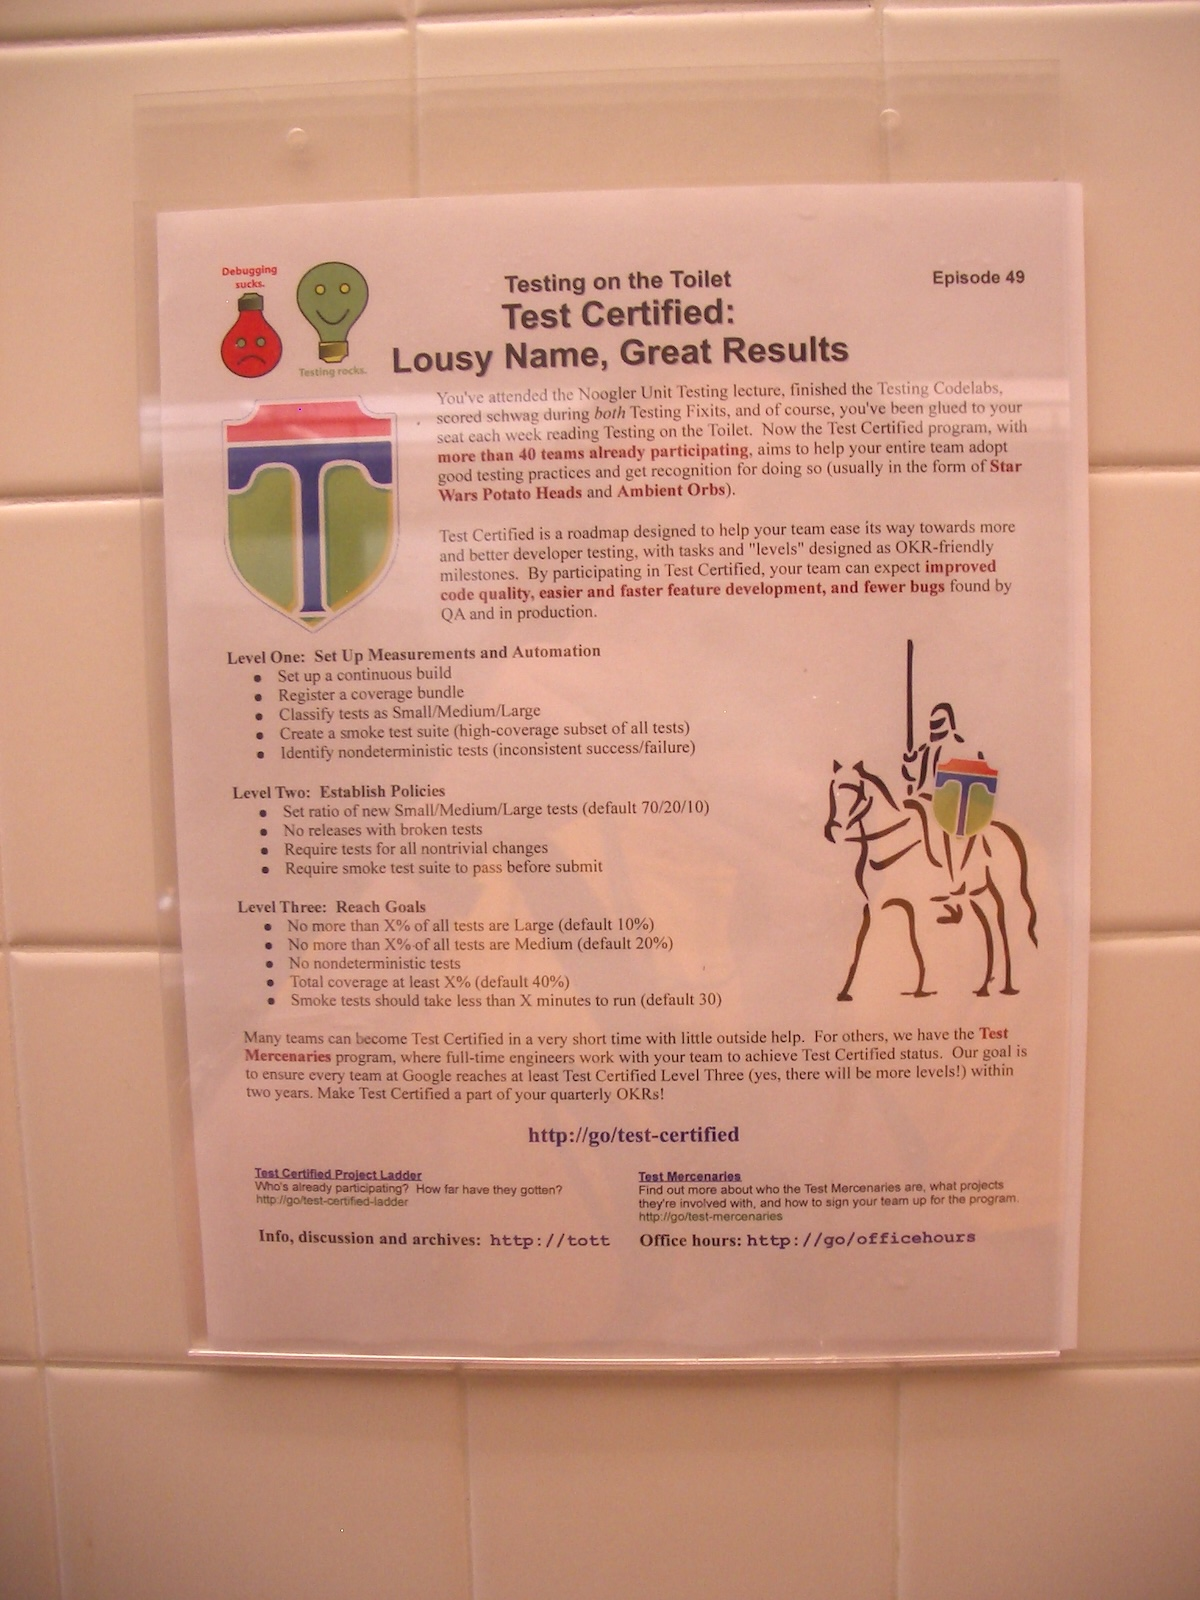
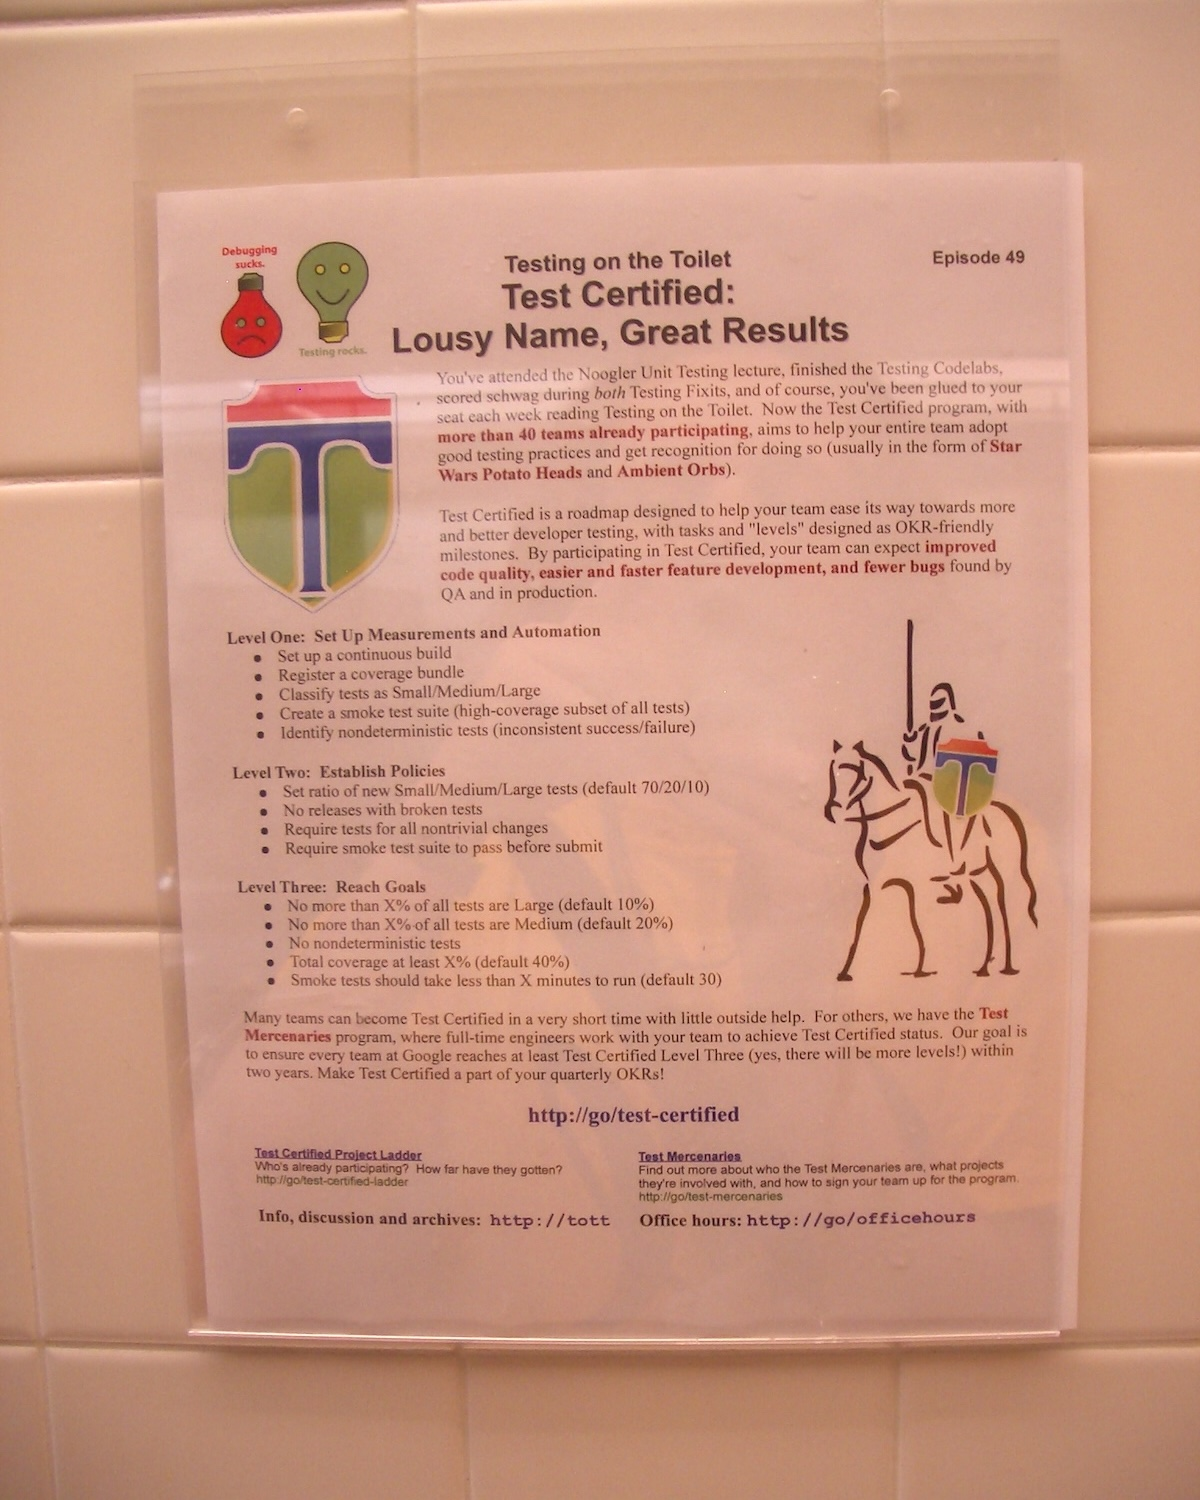
Image sizes.

diff --git a/blog/aiadoption.html b/blog/aiadoption.html
@@ -68,7 +68,7 @@
 <p>Developers at Google took an unexpected approach to solve this problem: <b>advertising in restrooms</b>. The weekly newsletter, now known as "Tech on the Toilet", describes tools and best practices written by developers within the company. Funny enough, researchers found the newsletters to be effective at getting developers to try new tools!<sup>3</sup></p>
 
 <figure>
-<img src="images/techonthetoilet.jpg" class="center" style="max-width:80%;border:1px solid #000000;" alt="An example newsletter of 'Tech on the Toilet' posted on a bathroom wall at Google. This edition is titled, 'Test Certified: Lousy Name, Great Results'."> 
+<img src="images/techonthetoilet.jpg" class="center" style="max-width:75%;border:1px solid #000000;" alt="An example newsletter of 'Tech on the Toilet' posted on a bathroom wall at Google. This edition is titled, 'Test Certified: Lousy Name, Great Results'."> 
 <figcaption style="text-align:center;"><small>Credit to Duncan Hull (<a href="https://www.flickr.com/photos/dullhunk/1019220380/">Flickr</a>)</small></figcaption>
 </figure>
 
@@ -76,7 +76,7 @@
 <p>A sociologist in the 1970s proposed the idea of a <i>threshold model</i><sup>4</sup>. Let's say <i>r<sub>t</sub></i> is the proportion of people that have already adopted something by time <i>t</i>, and <i>F(x)</i> is the proportion of people whose personal threshold is at most <i>x</i>, then the next round is <i>r<sub>t+1</sub> = F(r<sub>t</sub>)</i>. Or in normal speak, each time that more people adopt something, it can push other people past their threshold so that they then adopt it too, thus creating a cascade. A disconnected network or a high threshold can kill off adoption though.</p>
 
 <figure>
-<img src="images/thresholdmodel.png" class="center" style="max-width:70%;" alt="Figure 1 from the paper, 'Threshold Models of Collective Behavior', showing a plot with a curve to find the equilibrium point of a threshold distribution.">
+<img src="images/thresholdmodel.png" class="center" style="max-width:80%;" alt="Figure 1 from the paper, 'Threshold Models of Collective Behavior', showing a plot with a curve to find the equilibrium point of a threshold distribution.">
 <figcaption style="text-align:center;"><small>Credit to <i>Threshold Models of Collective Behavior</i>, page 1426.</small></figcaption>
 </figure>
 
